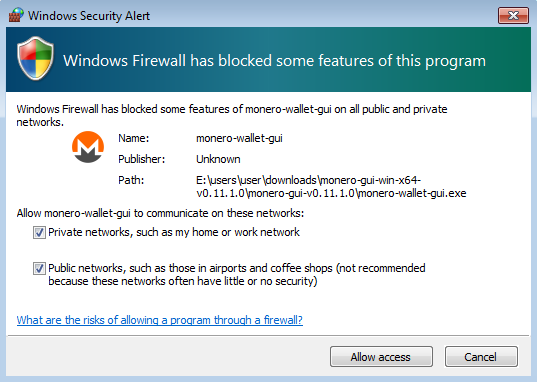
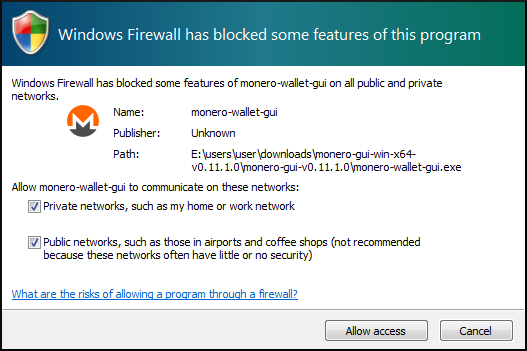
update wizard text, fix pic

diff --git a/GUI-tutorial.md b/GUI-tutorial.md
@@ -1,46 +1,58 @@
-# Preparation
-When launching `monero-wallet-gui` on Windows, make sure your antivirus doesn't block the program and remember to give the wallet permissions to connect to the network (a window asking for permissions will popup the first time you start the wallet).
+# Windows Preparation
++ Be sure that your antivirus does not block the program.
+
++ The first time you start the wallet you must give permission to connect to the network via a pop-up. Check the appropriate boxes and click `Allow access`.
 
 ![win firewall check](/media/win-firewall-check.png)
 
 # 1. Choose a Language
 ![Language](/media/wizard_1-lang.png)
 
-After extracting the package click on `monero-wallet-gui` you'll see a list of available languages, click on the one of your choice and go to the next step.
+Extract the package and click on `monero-wallet-gui`. You'll see a list of available languages, click on the one of your choice and go to the next step.
 
 # 2. Create a Wallet
 ![welcome](/media/wizard_2-options.png)
 
-On this page you can choose between three options:
+On this page you can choose between three methods for accessing a wallet, and two options for connecting to the network:
 
-**(1) Create a new wallet:** Start the procedure to make a new [wallet](https://getmonero.org/resources/moneropedia/wallet.html) from scratch. Choose this option if it's the first time you are creating a wallet.    
-**(2) Restore wallet from keys or mnemonic seed:** Click here if you want to recover a pre-existing wallet using the mnemonic seed or the keys (this is also the option for creating a view-only wallet).    
-**(3) Open a wallet from file:** Choosing this option you will have to select the file in the ".keys" format from a previous wallet.    
-**(4) Testnet:** Check *testnet* if you are going make tests not using the main network.    
+**(1) Create a new wallet:** Start the procedure to make a new wallet. Choose this option if this is your first time using Monero.    
+**(2) Restore wallet from keys or mnemonic seed:** Click here if you want to recover a pre-existing wallet using the mnemonic seed or the keys.    
+**(3) Open a wallet from file:** Choose this option to select a pre-existing wallet from your files with the extension `.keys`.    
+**(4) Testnet:** Check this box if you would like to use a developers network instead of the main network. Testnet is designed to let developers test new features that are not available on Mainnet or Stagenet.    
+**(5) Stagenet:** Check this box if you would like to use a network for staging instead of the main network. Stagenet mimics the features of Mainnet and is designed to let end users test Monero without the risk of losing funds.    
 
 ## 2.1. Create new wallet
 ![new](/media/wizard_3-create.png)
 
-Now give a name to your wallet (in this example `testname` is used). **Write down your [mnemonic seed](https://getmonero.org/resources/moneropedia/mnemonicseed.html) and keep it safe. Your seed is the master key of your wallet, you can use it to recover your funds.**
+Here you can create a new wallet:
+
+**(1) Wallet name:** Give a name for your wallet (in this example `testname` is used).    
+**(2) Mnemonic seed: Write down your [mnemonic seed](https://getmonero.org/resources/moneropedia/mnemonicseed.html) and keep it safe. Your seed is the master key of your wallet, you can use it to recover your funds.**    
+**(3) Wallet location:** Select the destination folder of the wallet.    
 
 ### 2.1.1 Add a password
 ![add password](/media/wizard_4-pass.png)
 
-Add a strong password to protect your wallet. If you lose your password, then only your mnemonic seed can recover your wallet history and funds.
+Add a strong password to protect your wallet. If you lose your password, then only your mnemonic seed can recover your wallet.
 
 ### 2.1.2 Daemon settings
 ![daemon settings](/media/wizard_5-daemon-settings.png)
 
-Here you can choose if you are going to run a full node or use a remote one. If you want to use a remote node you need to put the hostname or IP address of the node and its port. Choosing a remote node, you have the optional possibility to add a personalized path for your blockchain.
+Here you can choose if you are going to run a full node or use a remote one:
 
-### 2.1.4 Run a full node
-Upon completion of the setup you will be prompted to the settings menu, but first you will see a window like this popping up:
+**(1) Start node in background:** Check this box to run a full node and begin blockchain sync.    
+**(2) Blockchain location (optional):** To store the blockchain somewhere other than default, enter that location here.    
+**(3) Bootstrap node:** To use a bootstrap node enter the host and port. A bootstrap node allows you to use your wallet while you are downloading the blockchain by connecting to a remote node. You can find available remote nodes at [MoneroWorld](https://moneroworld.com/).    
+**(4) Connect to a remote node:** Check this box if you want to use only a remote node without downloading the blockchain. You will need to put the host and port of the remote node after checking the box.
+
+### 2.1.3 Run a full node
+Upon completion of the setup you will be prompted to the settings menu, but first you will see a window like this pop up:
 
 ![sync](/media/daemon-launch.png)
 
 If you want to create a normal wallet using your personal full node, you don't need to do anything, let the countdown finish, then wait until your node is fully synced.
 
-If you need some special settings like set up a view-only wallet or add the blockchain manually, go to section *3: Settings* in this guide.
+If you need some special settings, like setting up a view-only wallet or adding the blockchain manually, go to [section 3](#3-settings).
 
 
 ## 2.2 Restore wallet from keys or mnemonic seed
@@ -49,23 +61,26 @@ If you need some special settings like set up a view-only wallet or add the bloc
 ### 2.2.1 Restoring from seed
 ![restore from seed](/media/wizard_6-restore-seed.png)
 
-This is the easiest way to recover your wallet. You only need to put the following information:
+Restoring from your mnemonic seed is the easiest way to recover your wallet. You need to put the following information:
 
-**(1)** A name for it.    
-**(2)** Paste your seed made of 25 words.    
-**(3)** Select the destination folder of the wallet.    
+**(1) Wallet name:** Give a name for your wallet (in this example `testname` is used).    
+**(2) Mnemonic seed:** Paste your seed made of 25 (or 24) words.    
+**(3) Restore height (optional):** If you know the block height that your wallet was created at, you can specify it here so the wallet doesn't have to scan the entire blockchain looking for your funds. For example, if your first transaction was included in block `1350000`, you should put a slightly lower height (eg. `1330000`) so the wallet will start scanning from there, saving you some time.    
+**(4) Wallet location:** Select the destination folder of the wallet.    
 
 ### 2.2.2 Restoring from keys
 ![restore from key](/media/wizard_7-restore-keys.png)
 
-Restoring from keys is quite easy and can be extremely useful, especially if you are moving your wallet from online services like MyMonero. you need:
+Restoring from keys is quite easy and can be extremely useful, especially if you are moving your wallet from an online service like MyMonero. You need to put the following information:
 
-**Account address:** The address of the wallet you are recovering.    
-**View key:** Your private view key (needed to be able to check your funds).    
-**Spend key:** Your private spend key (needed to spend your funds).    
-**Restore height:** This field is optional, it lets you specify a block height so the wallet wallet doesn't have to scan the entire blockchain looking for your funds. For example, if your first transaction was included in block `1350000`, insert in this field a slightly lower height (eg. `1330000`) so the wallet will start scanning from there, saving you some time.    
+**(1) Wallet name:** Give a name for your wallet (in this example `testname` is used).    
+**(2) Account address:** The address of the wallet you are recovering.    
+**(3) View key:** Your private view key (needed to be able to check your funds).    
+**(4) Spend key:** Your private spend key (needed to spend your funds).    
+**(5) Restore height (optional):** If you know the block height that your wallet was created at, you can specify it here so the wallet doesn't have to scan the entire blockchain looking for your funds. For example, if your first transaction was included in block `1350000`, you should put a slightly lower height (eg. `1330000`) so the wallet will start scanning from there, saving you some time.    
+**(6) Wallet location:** Select the destination folder of the wallet.    
 
-When everything is ready click the right arrow and then the "Use Monero" button.
+When everything is ready click the right arrow and then the `Use Monero` button.
 
 ## 2.3. Open a wallet from file
 After clicking this option a window will pop up. Just navigate to your file with the extension `.keys`, select it and click the right arrow.
